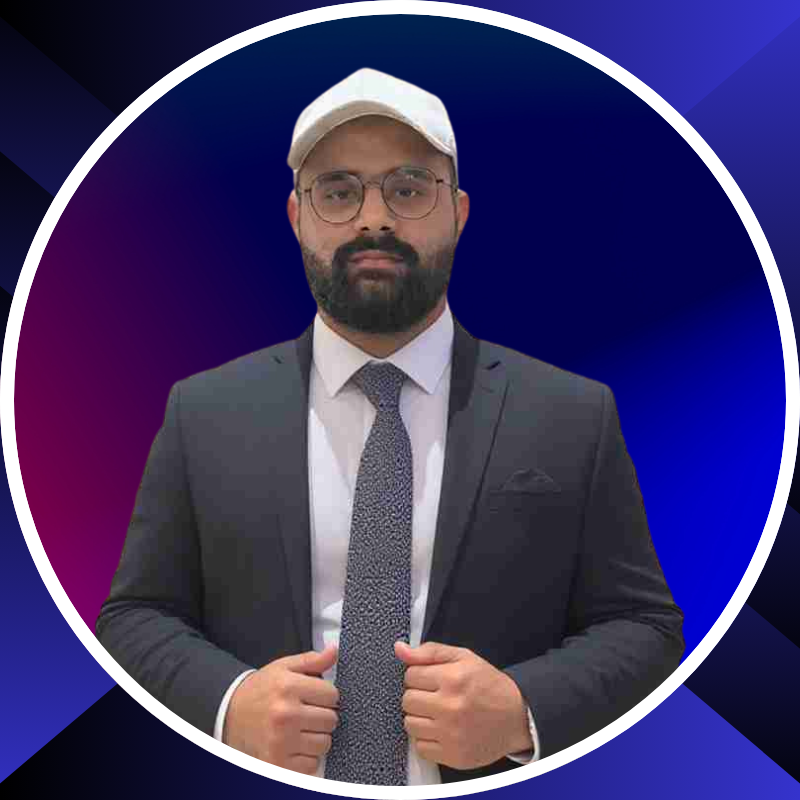
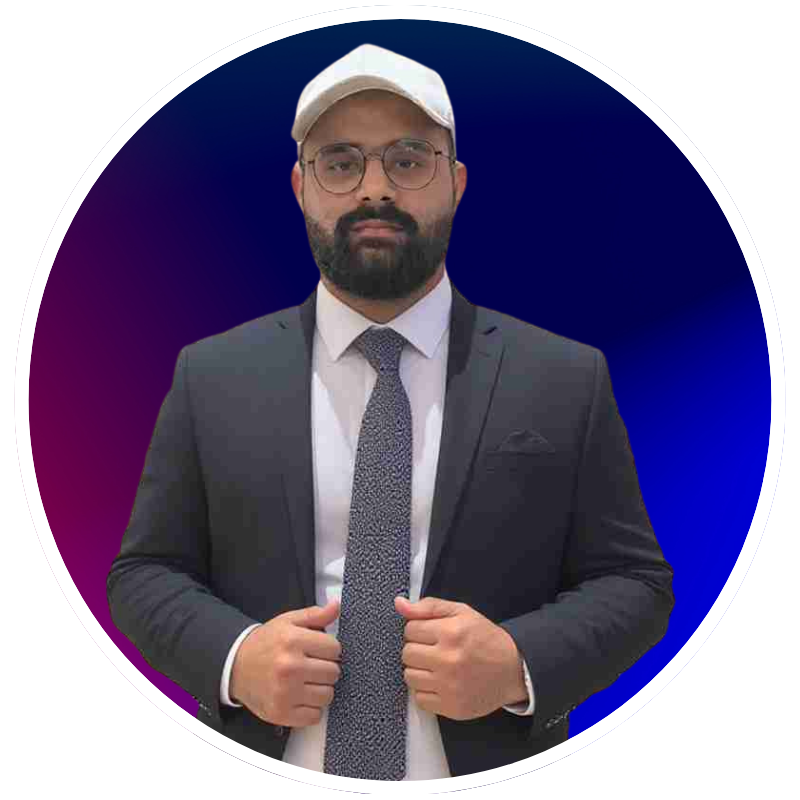
update profile picture

diff --git a/index.html b/index.html
@@ -42,7 +42,7 @@
       <div class="sidebar-info">
 
         <figure class="avatar-box">
-          <img src="./assets/images/My Profile.png" alt="Om Kharche" width="100">
+          <img src="./assets/images/My Profile.png" alt="Malik Imran" width="100">
         </figure>
 
         <div class="info-content">

diff --git a/assets/css/style.css b/assets/css/style.css
@@ -331,10 +331,6 @@ main {
   gap: 15px;
 }
 
-.avatar-box {
-  background: var(--bg-gradient-onyx);
-  border-radius: 100px;
-}
 
 .info-content .name {
   color: var(--white-2);
